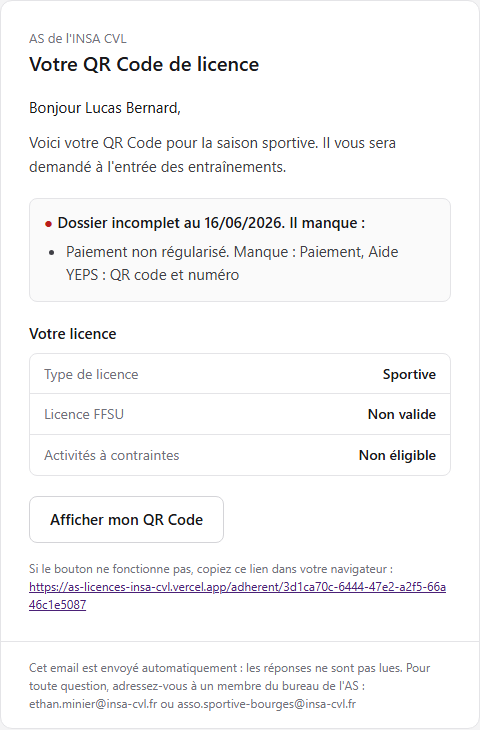
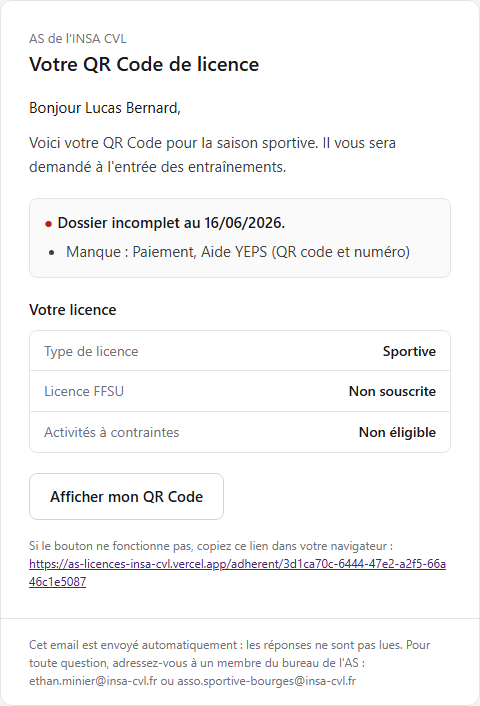
Fix: simplifier le libellé des manques et la mention de la licence FFSU

diff --git a/src/lib/emails.js b/src/lib/emails.js
@@ -41,7 +41,8 @@ export function recapitulatifLicence(adherent) {
   const types = Array.isArray(adherent.types_licence) ? adherent.types_licence.filter(Boolean) : [];
   return [
     [types.length > 1 ? 'Types de licence' : 'Type de licence', types.length > 0 ? types.join(', ') : 'Non renseigné'],
-    ['Licence FFSU', adherent.licence_ffsu_a_jour ? 'Valide' : 'Non valide'],
+    // Facultative (compétitions universitaires) : « Non souscrite » plutôt que « Non valide ».
+    ['Licence FFSU', adherent.licence_ffsu_a_jour ? 'Valide' : 'Non souscrite'],
     ['Activités à contraintes', adherent.activite_contraintes ? 'Éligible' : 'Non éligible'],
   ];
 }
@@ -90,7 +91,7 @@ function salutation(prenom, nom) {
 // Encadré neutre ; seule la pastille indique le statut (vert ou rouge).
 function blocStatut(valide, anomalies, date) {
   const pastille = `<span style="color:${valide ? C.ok : C.ko};">&#9679;</span>&nbsp;`;
-  const titre = valide ? 'Dossier complet et à jour.' : `Dossier incomplet au ${esc(date)}. Il manque :`;
+  const titre = valide ? 'Dossier complet et à jour.' : `Dossier incomplet au ${esc(date)}.`;
   const liste = valide
     ? ''
     : `<ul style="margin:6px 0 0 0;padding-left:22px;color:${C.texte2};">${anomalies
@@ -160,7 +161,7 @@ export function emailQrCode(adherent, statut, lien, date = dateDuJour()) {
 
   const statutTexte = statut.valide
     ? 'Dossier complet et à jour.'
-    : `Dossier incomplet au ${date}. Il manque :\n- ${anomalies.join('\n- ')}`;
+    : `Dossier incomplet au ${date}.\n- ${anomalies.join('\n- ')}`;
 
   const texte = `Bonjour ${adherent.prenom} ${adherent.nom},
 
@@ -196,7 +197,7 @@ export function emailRelance(adherent, statut, date = dateDuJour()) {
 
 Votre dossier d'inscription à l'AS n'est pas encore complet.
 
-Dossier incomplet au ${date}. Il manque :
+Dossier incomplet au ${date}.
 - ${anomalies.join('\n- ')}
 
 ${texteLicence(adherent)}

diff --git a/src/lib/emails.test.js b/src/lib/emails.test.js
@@ -28,7 +28,7 @@ describe('recapitulatifLicence', () => {
     expect(recapitulatifLicence({ types_licence: ['Encadrant'] })[0]).toEqual(['Type de licence', 'Encadrant']);
     expect(recapitulatifLicence(incomplet)).toEqual([
       ['Type de licence', 'Non renseigné'],
-      ['Licence FFSU', 'Non valide'],
+      ['Licence FFSU', 'Non souscrite'],
       ['Activités à contraintes', 'Non éligible'],
     ]);
   });
@@ -49,9 +49,11 @@ describe('emailQrCode', () => {
 
   it('dossier incomplet : date et liste de ce qui manque', () => {
     const { texte, html } = emailQrCode(incomplet, calculerStatutLicence(incomplet), LIEN, DATE);
-    expect(html).toContain(`Dossier incomplet au ${DATE}. Il manque :`);
+    expect(html).toContain(`Dossier incomplet au ${DATE}.`);
+    expect(html).not.toContain('Il manque');
     expect(html).toContain('<li style="margin:2px 0;">Questionnaire santé manquant</li>');
-    expect(texte).toContain('- Paiement non régularisé. Manque : Paiement, Aide YEPS (QR code et numéro)');
+    expect(texte).toContain('- Manque : Paiement, Aide YEPS (QR code et numéro)');
+    expect(texte).not.toContain('Paiement non régularisé');
   });
 
   it('pas d\'aplat de couleur : ni bouton ni encadré sur fond vert, rouge ou violet', () => {
@@ -73,7 +75,7 @@ describe('emailRelance', () => {
   it('sujet, liste des manques, récapitulatif et aucun lien', () => {
     const { sujet, texte, html } = emailRelance(incomplet, calculerStatutLicence(incomplet), DATE);
     expect(sujet).toBe('Licence incomplète - Emma Dubois');
-    expect(html).toContain(`Dossier incomplet au ${DATE}. Il manque :`);
+    expect(html).toContain(`Dossier incomplet au ${DATE}.`);
     expect(html).toContain('Votre licence');
     expect(html).not.toContain('href=');
     expect(texte).toContain('Pensez à régulariser votre situation auprès du bureau de l\'AS.');

diff --git a/src/lib/licence.test.js b/src/lib/licence.test.js
@@ -42,7 +42,7 @@ describe('calculerStatutLicence', () => {
       manque_yeps: true,
     });
     expect(a.anomalies[0]).toContain('Paiement');
-    expect(a.anomalies[0]).toContain('Aide YEPS (QR code et numéro)');
+    expect(a.anomalies[0]).toContain('Aide YEPS (QR code et numéro)');
   });
 
   it("liste PASS'SPORT dans les manques", () => {
